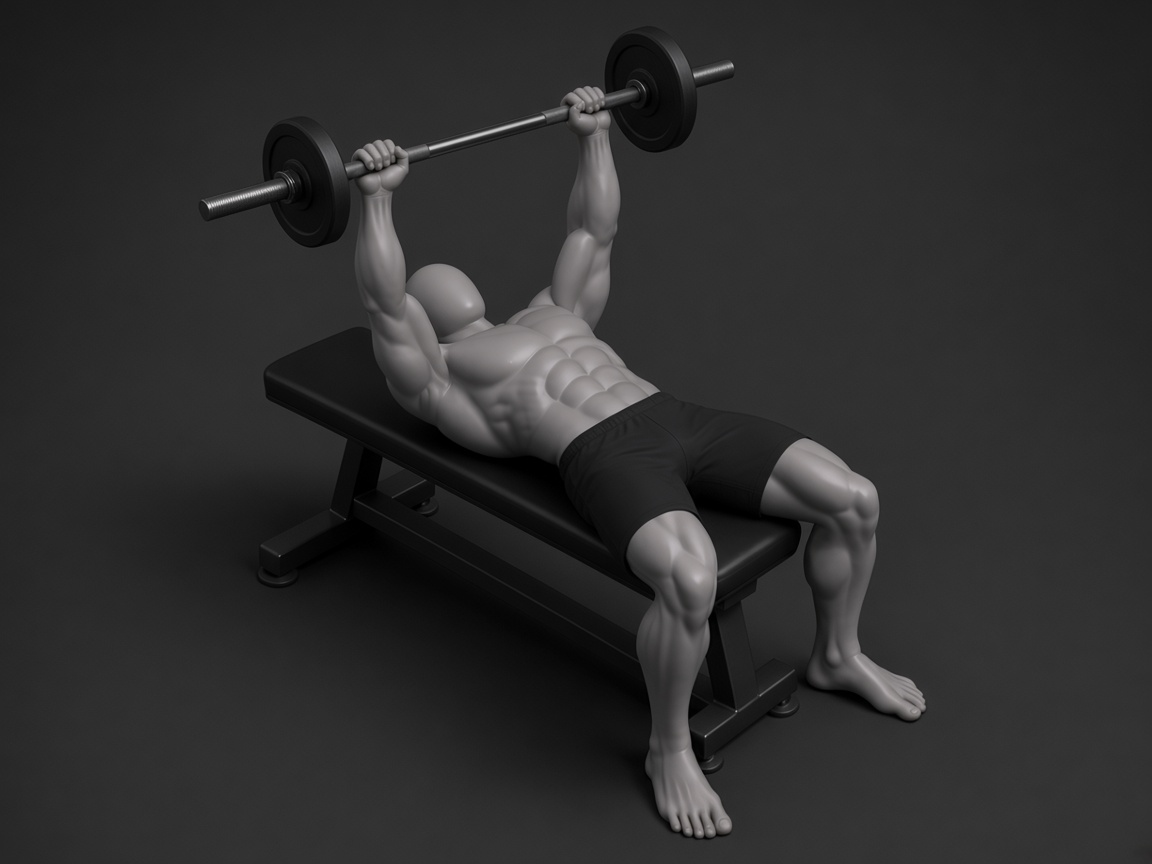
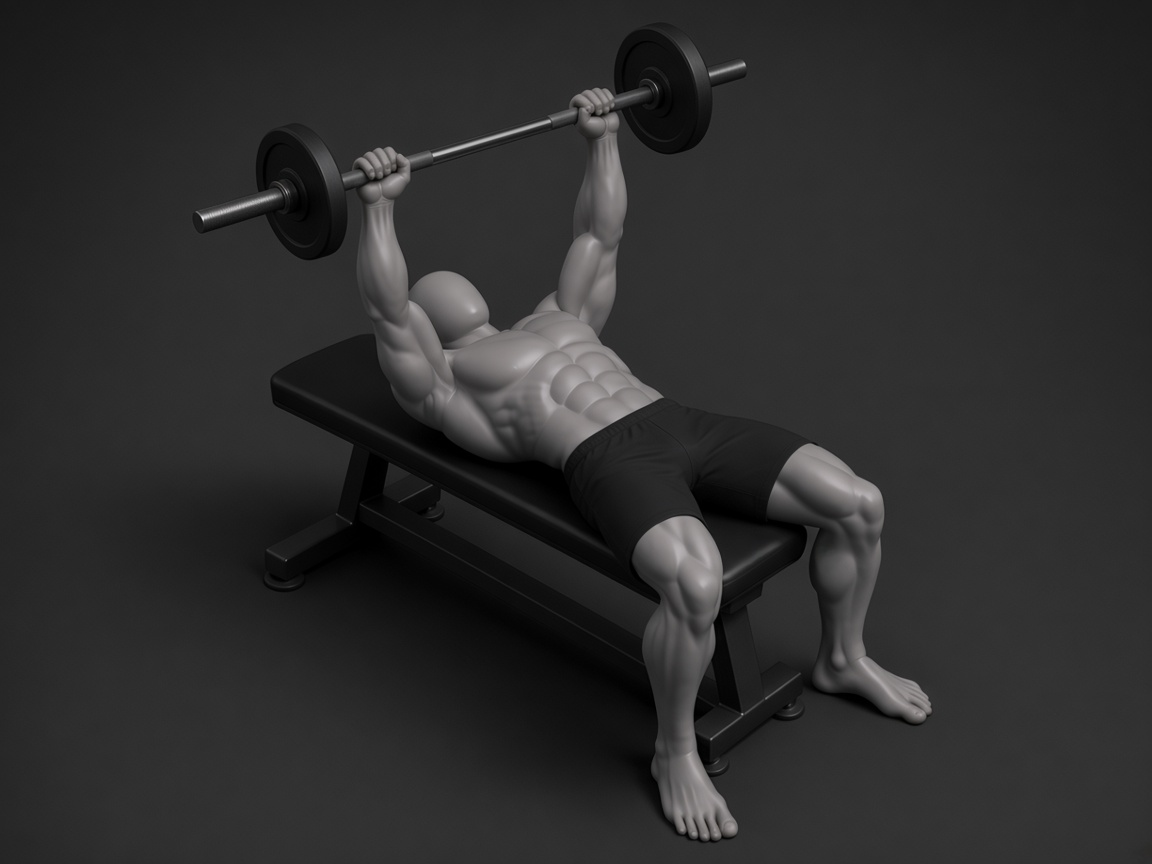
Add incline barbell press stills and put chest-press bars on the chest at stretch with a full lockout.

diff --git a/app/src/main/java/com/bool/gymtracker/domain/ExerciseDemo.kt b/app/src/main/java/com/bool/gymtracker/domain/ExerciseDemo.kt
@@ -26,6 +26,15 @@ object ExerciseDemos {
                 "Press to lockout; do not bang the dumbbells together.",
             ),
         ),
+        "Incline barbell press" to ExerciseDemo(
+            lockoutAsset = "exercises/incline_barbell_press_lockout.png",
+            bottomAsset = "exercises/incline_barbell_press_bottom.png",
+            tips = listOf(
+                "Set a moderate incline. Bar starts over the upper chest.",
+                "Lower the bar to the chest with elbows about 45° from the torso.",
+                "Press to lockout with elbows fully straight; do not bounce the bar.",
+            ),
+        ),
         "Incline dumbbell press" to ExerciseDemo(
             lockoutAsset = "exercises/incline_dumbbell_press_lockout.png",
             bottomAsset = "exercises/incline_dumbbell_press_bottom.png",

diff --git a/app/src/test/java/com/bool/gymtracker/domain/ExerciseDemoTest.kt b/app/src/test/java/com/bool/gymtracker/domain/ExerciseDemoTest.kt
@@ -17,6 +17,10 @@ class ExerciseDemoTest {
         assertEquals("exercises/dumbbell_bench_press_lockout.png", bench.lockoutAsset)
         assertEquals(3, bench.tips.size)
 
+        val inclineBarbell = ExerciseDemos.forName("Incline barbell press")!!
+        assertEquals("exercises/incline_barbell_press_lockout.png", inclineBarbell.lockoutAsset)
+        assertEquals(3, inclineBarbell.tips.size)
+
         val incline = ExerciseDemos.forName("Incline dumbbell press")!!
         assertEquals("exercises/incline_dumbbell_press_bottom.png", incline.bottomAsset)
         assertEquals(3, incline.tips.size)

diff --git a/app/src/main/java/com/bool/gymtracker/domain/ExerciseTargetMuscles.kt b/app/src/main/java/com/bool/gymtracker/domain/ExerciseTargetMuscles.kt
@@ -8,6 +8,7 @@ data class ExerciseTargets(
 object ExerciseTargetMuscles {
     private val byName = mapOf(
         "Barbell bench press" to targets("Chest, front delts", "Triceps"),
+        "Incline barbell press" to targets("Chest, front delts", "Triceps"),
         "Incline dumbbell press" to targets("Chest, front delts", "Triceps"),
         "Dumbbell bench press" to targets("Chest, front delts", "Triceps"),
         "Chest press machine" to targets("Chest", "Front delts, triceps"),

diff --git a/app/src/main/java/com/bool/gymtracker/data/seed/ExerciseSeed.kt b/app/src/main/java/com/bool/gymtracker/data/seed/ExerciseSeed.kt
@@ -7,6 +7,7 @@ import com.bool.gymtracker.domain.MuscleGroup
 object ExerciseSeed {
     fun builtIn(): List<ExerciseEntity> = listOf(
         lift("Barbell bench press", MuscleGroup.CHEST),
+        lift("Incline barbell press", MuscleGroup.CHEST),
         lift("Incline dumbbell press", MuscleGroup.CHEST),
         lift("Dumbbell bench press", MuscleGroup.CHEST),
         lift("Chest press machine", MuscleGroup.CHEST),

diff --git a/docs/exercise-demo-criteria.md b/docs/exercise-demo-criteria.md
@@ -1,6 +1,6 @@
 # Exercise demo stills and loops
 
-Use this for every built-in lift. One **character**, one **camera**, **black shorts**. Two stills per lift, then one **animated PNG**.
+Use this for every built-in lift. One **character**, one **camera**, **black shorts**. **Two stills per lift** (`lockout` and `bottom`). Do **not** build the animated PNG until asked.
 
 Do not use a new person per frame. Do not use the block 3D mannequin.
 
@@ -17,16 +17,31 @@ Do not use a new person per frame. Do not use the block 3D mannequin.
 - **Same angle and zoom** on every frame of a lift, and the same crop family across the library.
 - The generator redraws the camera each time. After stills exist, **align and crop** to the lockout frame (scale + pan). Reject if it still looks like a different shot.
 
-## Poses (two stills → animated PNG)
+## Poses (two stills for now)
+
+Generate **only** these two files per lift. Skip the loop.
 
 | File | Pose |
 |------|------|
 | `{slug}-lockout.png` | End of the concentric: arms **fully extended**. Covering the head is fine. |
-| `{slug}-bottom.png` | Start of the concentric: implements at the stretch (press: DBs on the chest). Covering the head is fine. Both sides in the same phase. |
-
-Playback: **lockout ↔ bottom**, looping (~700 ms each). File: `{slug}-loop.png` (APNG).
+| `{slug}-bottom.png` | Start of the concentric: **stretch** (see chest barbell/Smith presses below). Covering the head is fine. Both sides in the same phase. |
 
 Holds with no path (plank, carry) stay **one still**. Custom exercises: **no demo**.
+
+### Chest barbell / Smith presses (stretch vs lockout)
+
+Applies to every **bar-on-chest press**: barbell bench press, incline barbell press, flat Smith bench press, incline Smith bench press, and the same family later.
+
+**Bottom (stretch)**
+
+- The bar sits **on the chest**, along the mid-chest line (nipple / lower-pec line across the torso — the red guide on the reference shot). Not on the neck, not floating above the chest.
+- Elbows are **about 45°** from the torso (slightly tucked). Not flared to 90° (arms straight out to the sides), not pinned tight to the ribs.
+
+**Lockout**
+
+- Elbows are **fully extended**. No bend in either elbow.
+
+Dumbbell chest presses still use the same two poses (stretch at the chest, lockout with straight elbows). The bar-path / red-line rule is for a **single bar** (barbell or Smith).
 
 Stills stay **unpainted** gray clay. Do not add lime (or any) muscle highlights on lockout, bottom, or loop frames. Main / auxiliary names on the demo screen still come from `ExerciseTargetMuscles`, not from paint on the PNG.
 
@@ -34,11 +49,15 @@ Stills stay **unpainted** gray clay. Do not add lime (or any) muscle highlights 
 
 - Different body, face, or shorts color/cut between frames or lifts
 - Zoom or angle jump after align
-- Wrong equipment (e.g. incline bench for flat DB press)
+- Wrong equipment (e.g. incline bench for flat DB press, or a **flat** bench on an incline press)
 - One arm lockout while the other is at the chest
 - Lime or other muscle paint on the stills
+- Chest barbell/Smith **bottom**: bar off the chest, on the neck, or elbows flared ~90°
+- Chest press **lockout**: any visible elbow bend
 
-## Build the loop
+## Build the loop (later)
+
+Do not run this until we ask for a loop. When we do:
 
 ```
 py -3 tools/make_exercise_loop.py --lockout LOCKOUT.png --bottom BOTTOM.png --out LOOP.png
@@ -55,7 +74,8 @@ Aligns bottom to lockout, crops, writes a two-frame animated PNG.
 - `content/exercises/_character/muscle-map.jpg` — labeled front/back chart (reference only)
 - `content/exercises/barbell-bench-press/` — unpainted `lockout.png`, `bottom.png`, `loop.png`
 - `content/exercises/dumbbell-bench-press/` — unpainted `lockout.png`, `bottom.png`, `loop.png`
+- `content/exercises/incline-barbell-press/` — unpainted `lockout.png`, `bottom.png` (no loop yet)
 - `content/exercises/incline-dumbbell-press/` — unpainted `lockout.png`, `bottom.png`, `loop.png`
-- App copies: `app/src/main/assets/exercises/` — `{slug}.png` (loop), `{slug}_lockout.png`, `{slug}_bottom.png` for Barbell bench press, Dumbbell bench press, and Incline dumbbell press
+- App copies: `app/src/main/assets/exercises/` — `{slug}_lockout.png`, `{slug}_bottom.png` (and `{slug}.png` loop when it exists) for Barbell bench press, Dumbbell bench press, Incline barbell press, and Incline dumbbell press
 
-Save new generations under `content/exercises/{slug}/` in this repo. Do not leave the only copy in Cursor’s `assets` folder.
+Save new generations under `content/exercises/{slug}/` in this repo (`lockout.png` and `bottom.png` only until loops are requested). Do not leave the only copy in Cursor’s `assets` folder.

diff --git a/docs/design.md b/docs/design.md
@@ -22,7 +22,7 @@ Bottom bar: **Workouts** | **History** | **Progress**. Settings is a gear on the
 5. **Customize** — user templates; FAB new workout; empty: create first workout. Tap a card to open and **Start**. **Edit** is edit-only (no Start). Light-red **Delete** on the card (confirm; history kept).
 6. **Edit workout** — name, ordered list, up/down reorder, add exercise, delete with confirm. No **Start**. **Save** / **Cancel**; leaving a new unsaved workout asks Save or Don't save (Don't save deletes it). Leaving with unsaved edits on an existing workout asks Save or Don't save (Don't save discards). Tap the name to clear it and type a new one; leaving it empty keeps the last saved name.
 7. **Exercise picker** — search, **primary muscle** chips: Chest, Back, Shoulders, Arms, Legs, Abs, Other (light text on dark chips). Thumbnail on each row (empty if that lift has no demo). Tap the name/thumbnail to open the **exercise demo**. Checkbox to mark several, then **Add selected**. Demo **Add** adds that one lift. Create custom with the same muscle list. Duplicate on the workout: message **This exercise is already added** for 3s. No Push / Pull / Core chips.
-8. **Exercise demo** — full-width two-frame loop (when shipped) on top. Under it: **Main** and **Auxiliary** targeted muscles, then how-to tips. First pass loops: **Barbell bench press**, **Dumbbell bench press**, and **Incline dumbbell press**. Other built-ins: empty demo until stills exist; muscles still show. Custom exercises: no demo; **Main** is the primary muscle they chose, no auxiliary. Back returns to the list. **Add** only when opened from the picker.
+8. **Exercise demo** — full-width two-frame loop (when shipped) on top. Under it: **Main** and **Auxiliary** targeted muscles, then how-to tips. First pass: **Barbell bench press**, **Dumbbell bench press**, **Incline barbell press**, and **Incline dumbbell press**. Other built-ins: empty demo until stills exist; muscles still show. Custom exercises: no demo; **Main** is the primary muscle they chose, no auxiliary. Back returns to the list. **Add** only when opened from the picker.
 9. **Active session** — elapsed time, Finish; sets (⋮ → orange **Set as warm-up**, one-line orange **warm-up** label only if marked, compact kg/reps, complete, remove set); Add set; rest bar. System back asks **Finish** / **Resume**.
 10. **Rest** — large countdown, pause / +15s / skip (light / lime labels on the dark bar); at 0: haptic + sound.
 11. **History** — finished sessions; tap for read-only detail.

diff --git a/docs/architecture.md b/docs/architecture.md
@@ -68,7 +68,7 @@ Empty app → templates + exercises → session logging → rest timer → histo
 
 ## Tests
 
-- `ExerciseDemoTest` — shipped name map for Barbell bench press, Dumbbell bench press, and Incline dumbbell press; unknown names have no demo; every built-in seed name has main/auxiliary targets
+- `ExerciseDemoTest` — shipped name map for Barbell bench press, Dumbbell bench press, Incline barbell press, and Incline dumbbell press; unknown names have no demo; every built-in seed name has main/auxiliary targets
 - `V1WorkoutFlowTest` — create workout, log set, finish, history, progression, cancel, duplicate custom name, rename blank keeps name, add/remove set, reject duplicate workout exercise, new session always one set, delete template keeps history, built-in program locked + copy one day, session keeps primary muscle if the library remaps, coverage region snapshot, weekly volume from finished working sets, finish leaves incomplete sets out of volume
 - `RestTimerStateTest` — countdown, pause/resume/skip, +15s
 - `VolumeTest` — working-set small-volume, Total-volume per muscle, Mon–Sun week in local time, warm-ups / incomplete / unfinished excluded

diff --git a/docs/tasks.md b/docs/tasks.md
@@ -37,13 +37,13 @@ Mark a box `[x]` when that item is done.
 
 ### Exercise demos (remaining lifts)
 
-- [ ] Complete lockout / bottom / loop stills for every remaining built-in exercise (`docs/exercise-demo-criteria.md`). Stills stay unpainted.
+- [ ] Two stills per lift (`lockout` + `bottom`) for remaining built-ins (`docs/exercise-demo-criteria.md`). Chest barbell/Smith presses: bar on mid-chest at bottom, elbows ~45°; lockout with straight elbows. No loops until asked. Stills stay unpainted.
 
 ### Animation integration
 
 Integrate exercise characters/loops in the app (built-in lifts only; custom exercises stay without a demo).
 
-**First pass:** **Barbell bench press**, **Dumbbell bench press**, and **Incline dumbbell press** have loops. Other cards get the same chrome and main/auxiliary muscles; thumbnail/animation/how-to stay empty until their demos exist.
+**First pass:** **Barbell bench press**, **Dumbbell bench press**, **Incline barbell press**, and **Incline dumbbell press** have demos. Other cards get the same chrome and main/auxiliary muscles; thumbnail/animation/how-to stay empty until their demos exist.
 
 **Customize (exercise picker)**
 

diff --git a/docs/requirements.md b/docs/requirements.md
@@ -18,7 +18,7 @@ v1 is done when you can use it for a real session without an account or internet
 - Search / filter by that same list (not Push / Pull / Core).
 - Add a custom exercise (name + primary muscle).
 - Built-in exercises are not deleted in v1.
-- **Demos (first pass):** **Barbell bench press**, **Dumbbell bench press**, and **Incline dumbbell press** have a two-frame loop. Other built-ins show the same cards with an empty thumbnail until stills exist. Custom exercises have no demo.
+- **Demos (first pass):** **Barbell bench press**, **Dumbbell bench press**, **Incline barbell press**, and **Incline dumbbell press** have lockout/bottom stills (two-frame playback). Other built-ins show the same cards with an empty thumbnail until stills exist. Custom exercises have no demo.
 - Opened demo: large loop (or empty placeholder), then **Main** and **Auxiliary** muscles, then how-to tips. Built-ins have a main/auxiliary list; custom uses the chosen primary muscle only.
 - Picker: thumbnail; tap row opens demo; checkbox + **Add selected** (or **Add** on the demo). Program / opened-day lists: thumbnail; tap opens demo; no checkboxes.
 

diff --git a/docs/bug-log.md b/docs/bug-log.md
@@ -10,6 +10,12 @@ Add a new `- [ ]` item when we find a bug. Change it to `- [x]` after it is fixe
 
 ## Fixed
 
+- [x] Incline barbell press bottom: bar was too high. Now on the mid-chest line, touching the pecs. Same incline bench. `content/exercises/incline-barbell-press/bottom.png`.
+
+- [x] Incline barbell press bottom still was a flat bench. Regenerated on the same incline bench as lockout. `content/exercises/incline-barbell-press/bottom.png`.
+
+- [x] Barbell bench press demo: bottom bar now on mid-chest with elbows ~45°; lockout elbows fully straight. `content/exercises/barbell-bench-press/` lockout.png + bottom.png (loop not regenerated).
+
 - [x] Session back / system back gesture discarded the workout with no prompt. Now asks **Finish** / **Resume**. Finish saves; incomplete sets stay incomplete (0 toward volume). `SessionScreen` BackHandler.
 - [x] Rest timer digits and Pause / +15s / Skip were dark (`labelLarge` is black). Forced light/lime labels. `RestBar`.
 

diff --git a/docs/changes-log.md b/docs/changes-log.md
@@ -10,6 +10,10 @@ Add a new `- [ ]` item when we agree a product/UI/behavior change (not a bug). C
 
 ## Done
 
+- [x] Incline barbell press: new built-in + lockout/bottom stills (bar on chest, elbows ~45° / lockout straight). No loop. `ExerciseSeed`, `ExerciseDemos`, `content/exercises/incline-barbell-press/`.
+
+- [x] Exercise demo criteria: chest barbell/Smith presses (flat + incline) use stretch (bar on mid-chest, elbows ~45°) and lockout (elbows fully straight). Two stills only for now; no loop until asked. `docs/exercise-demo-criteria.md`.
+
 - [x] Demo stills unpainted (no lime muscle paint) on Barbell bench press, Dumbbell bench press, and Incline dumbbell press. Painting dropped from `docs/exercise-demo-criteria.md`.
 
 - [x] Barbell bench press demo: C1 C2 D1 primary lime, B5 pale auxiliary; stills + loop in `content/exercises/barbell-bench-press/` and `ExerciseDemos`.

diff --git a/content/exercises/README.md b/content/exercises/README.md
@@ -12,4 +12,4 @@ All stills, loops, the character reference, and the loop builder live **in this 
 | `content/exercises/{slug}/` | `lockout.png`, `bottom.png`, `loop.png` |
 | `app/src/main/assets/exercises/` | App copies: `{slug}.png` (loop), `{slug}_lockout.png`, `{slug}_bottom.png` |
 
-When generating a new lift: start from `_character/reference.png`, save stills under `content/exercises/{slug}/`, then run `make_exercise_loop.py` into that folder and copy `loop.png` to `app/src/main/assets/exercises/`.
+When generating a new lift: start from `_character/reference.png`, save **`lockout.png` and `bottom.png`** under `content/exercises/{slug}/`. Do **not** run the loop script until asked. When a loop is requested, run `make_exercise_loop.py` into that folder and copy `loop.png` to `app/src/main/assets/exercises/`.
